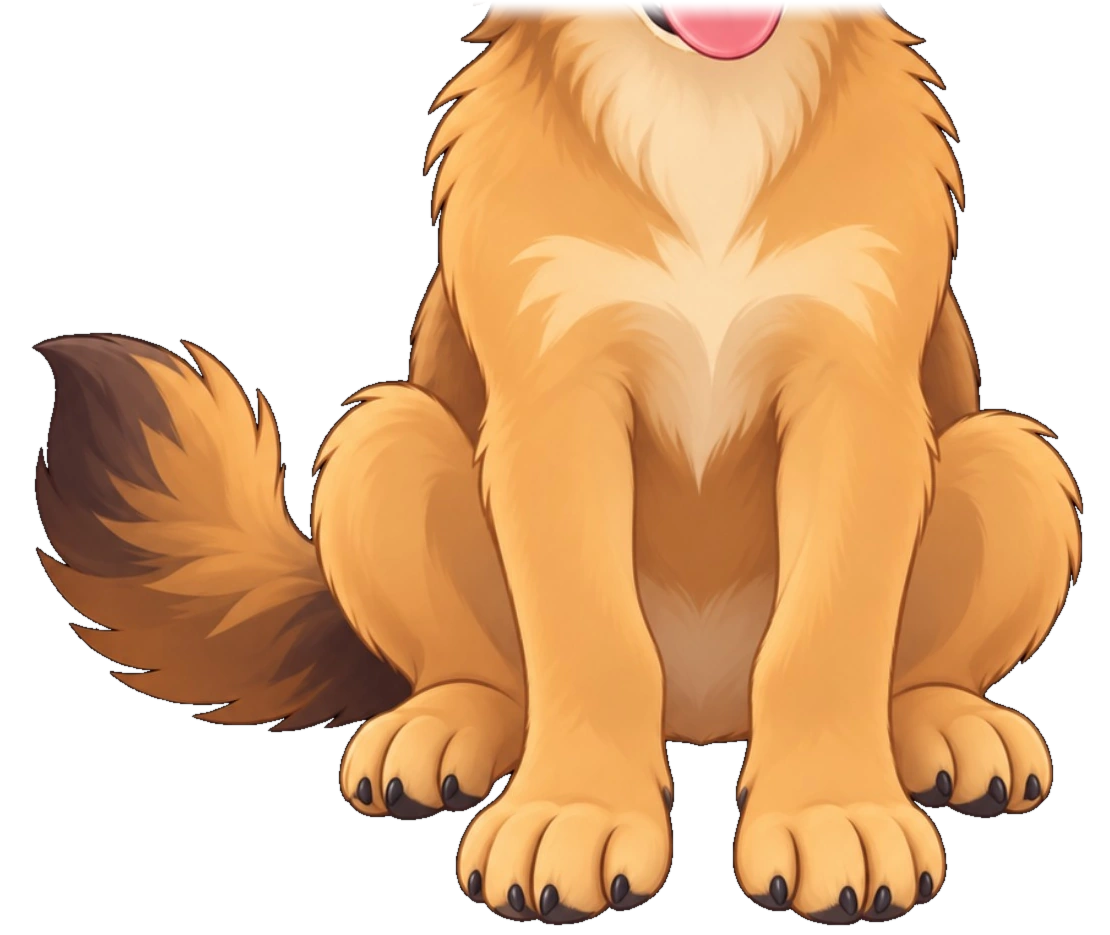
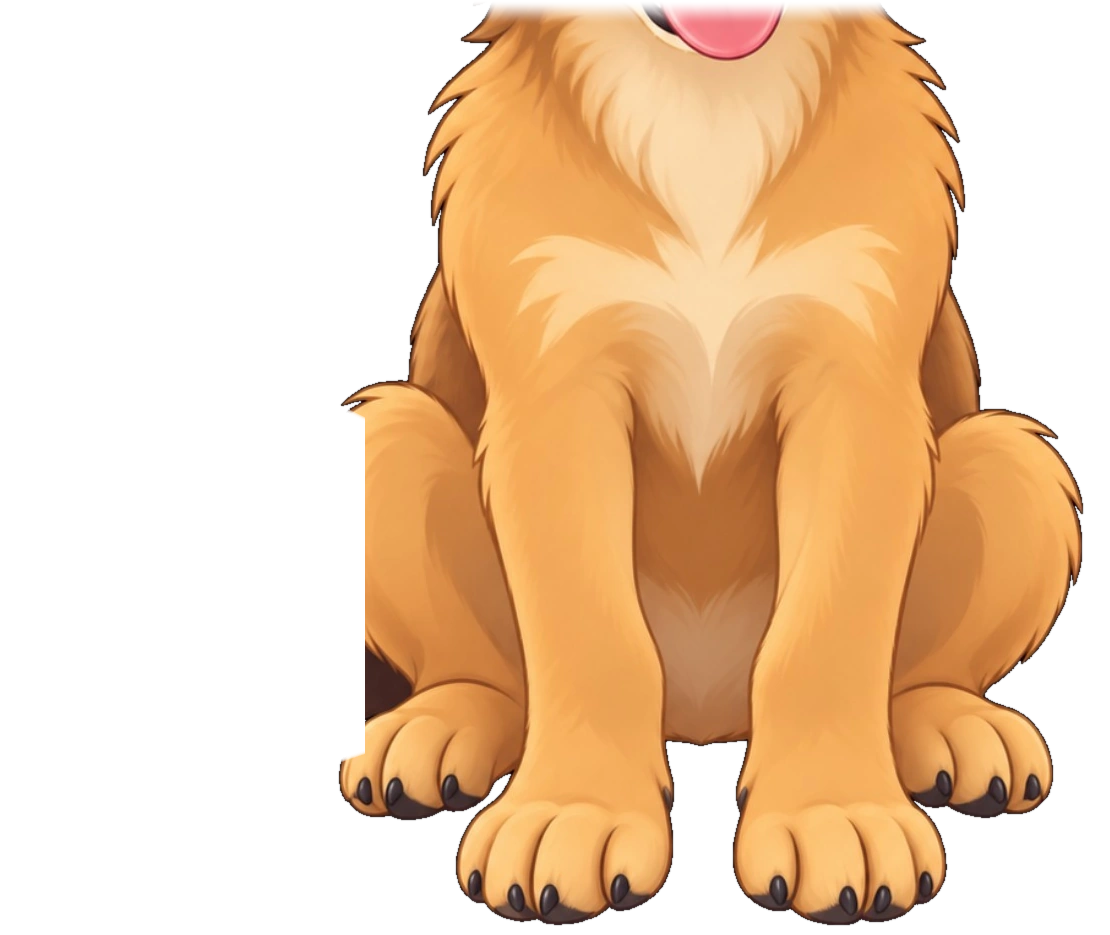
fix(pets): make Max rigged idle visibly animate

Changed region(s): [[0.0306, 0.3412, 0.3369, 0.8374]]

diff --git a/frontend/pets/components/PetRig.tsx b/frontend/pets/components/PetRig.tsx
@@ -3,9 +3,38 @@ import type { PetAnimation, PetDefinition } from "../config";
 import styles from "../pets.module.css";
 
 type RigPet = Extract<PetDefinition, { renderer: "rig" }>;
+type RigPart = RigPet["rig"]["parts"][number];
 
-// Each layer uses the same master coordinate system. Only transform changes
-// during idle; the grounded body and the containing layout never move.
+const PART_MOTION: Record<RigPart["motion"], string> = {
+  fixed: "",
+  breath: styles.rigBreath,
+  head: "",
+  earLeft: styles.rigEarLeft,
+  earRight: styles.rigEarRight,
+  tail: styles.rigTail,
+};
+
+function renderPart(part: RigPart, canvasSize: number) {
+  return (
+    <span
+      key={part.src}
+      className={`${styles.rigPart} ${PART_MOTION[part.motion]}`}
+      style={{
+        left: `${part.x / canvasSize * 100}%`,
+        top: `${part.y / canvasSize * 100}%`,
+        width: `${part.width / canvasSize * 100}%`,
+        height: `${part.height / canvasSize * 100}%`,
+        transformOrigin: part.pivot ? `${part.pivot.x}% ${part.pivot.y}%` : undefined,
+        backgroundImage: `url("${part.src}")`,
+      }}
+      data-rig-part={part.motion}
+      aria-hidden="true"
+    />
+  );
+}
+
+// The head group carries both ears; only the upper torso, head, ears and tail
+// transform. The paws and the root box stay anchored throughout the loop.
 export default function PetRig({
   pet,
   animation,
@@ -16,6 +45,8 @@ export default function PetRig({
   className: string;
 }) {
   const { canvasSize, duration, parts } = pet.rig;
+  const headParts = parts.filter((part) => part.motion === "head" || part.motion === "earLeft" || part.motion === "earRight");
+  const groundedParts = parts.filter((part) => part.motion !== "head" && part.motion !== "earLeft" && part.motion !== "earRight");
 
   return (
     <span
@@ -26,20 +57,10 @@ export default function PetRig({
       role="img"
       aria-label={pet.name}
     >
-      {parts.map((part) => (
-        <span
-          key={part.src}
-          className={`${styles.rigPart} ${part.motion === "head" ? styles.rigHead : part.motion === "breath" ? styles.rigBreath : ""}`}
-          style={{
-            left: `${part.x / canvasSize * 100}%`,
-            top: `${part.y / canvasSize * 100}%`,
-            width: `${part.width / canvasSize * 100}%`,
-            height: `${part.height / canvasSize * 100}%`,
-            backgroundImage: `url("${part.src}")`,
-          }}
-          aria-hidden="true"
-        />
-      ))}
+      {groundedParts.map((part) => renderPart(part, canvasSize))}
+      <span className={styles.rigHeadGroup} data-rig-part="headGroup" aria-hidden="true">
+        {headParts.map((part) => renderPart(part, canvasSize))}
+      </span>
     </span>
   );
 }

diff --git a/frontend/pets/pets.module.css b/frontend/pets/pets.module.css
@@ -28,23 +28,54 @@
   background-size: 100% 100%;
   pointer-events: none;
 }
+.rigHeadGroup {
+  position: absolute;
+  inset: 0;
+  animation: maxHead var(--rig-duration) ease-in-out infinite;
+  will-change: transform;
+  pointer-events: none;
+}
 .rigBreath {
-  transform-origin: 50% 84%;
   animation: maxBreath var(--rig-duration) ease-in-out infinite;
   will-change: transform;
 }
-.rigHead {
-  transform-origin: 50% 90%;
-  animation: maxHead var(--rig-duration) ease-in-out infinite;
+.rigEarLeft {
+  animation: maxEarLeft var(--rig-duration) ease-in-out infinite;
+  will-change: transform;
+}
+.rigEarRight {
+  animation: maxEarRight var(--rig-duration) ease-in-out infinite;
+  will-change: transform;
+}
+.rigTail {
+  animation: maxTail var(--rig-duration) ease-in-out infinite;
   will-change: transform;
 }
 @keyframes maxBreath {
   0%, 100% { transform: scale(1); }
-  50% { transform: scale(1.014, 1.004); }
+  50% { transform: scale(1.03, 1.015); }
 }
 @keyframes maxHead {
   0%, 100% { transform: translateY(0); }
-  50% { transform: translateY(-.7%); }
+  50% { transform: translateY(calc(-1 * clamp(3.2px, .97vw, 4px))); }
+}
+@keyframes maxEarLeft {
+  0%, 18%, 100% { transform: rotate(0); }
+  57% { transform: rotate(-1.2deg); }
+  80% { transform: rotate(.15deg); }
+}
+@keyframes maxEarRight {
+  0%, 22%, 100% { transform: rotate(0); }
+  54% { transform: rotate(1.1deg); }
+  78% { transform: rotate(-.15deg); }
+}
+@keyframes maxTail {
+  0%, 26%, 100% { transform: rotate(0); }
+  62% { transform: rotate(1.3deg); }
+}
+@keyframes maxBreathReduced {
+  0%, 100% { transform: scale(1); }
+  50% { transform: scale(1.009, 1.004); }
 }
 
 .shell {
@@ -283,6 +314,14 @@
 
 @media (prefers-reduced-motion: reduce) {
   .petStrip { animation: none; will-change: auto; }
-  .rigBreath, .rigHead { animation: none; will-change: auto; }
+  /* The global reduced-motion rule forces every animation to 0.01ms once.
+     Override that only for Max's gentler breathing cycle. */
+  .rigRoot .rigBreath {
+    animation-name: maxBreathReduced;
+    animation-duration: 5.6s !important;
+    animation-iteration-count: infinite !important;
+    will-change: auto;
+  }
+  .rigHeadGroup, .rigEarLeft, .rigEarRight, .rigTail { animation: none; will-change: auto; }
   .petCard, .petsAccess { transition: none; }
 }

diff --git a/frontend/pets/config.ts b/frontend/pets/config.ts
@@ -26,7 +26,8 @@ interface RigPart {
   y: number;
   width: number;
   height: number;
-  motion: "fixed" | "breath" | "head";
+  motion: "fixed" | "breath" | "head" | "earLeft" | "earRight" | "tail";
+  pivot?: { x: number; y: number };
 }
 
 interface RigPet extends PetBase {
@@ -67,11 +68,14 @@ export const PETS: readonly PetDefinition[] = [
     portraitHeight: 1536,
     rig: {
       canvasSize: 1536,
-      duration: 3.4,
+      duration: 3.6,
       parts: [
+        { src: "/pets/max/tail.webp", x: 180, y: 880, width: 520, height: 500, motion: "tail", pivot: { x: 82, y: 45 } },
         { src: "/pets/max/body.webp", x: 190, y: 585, width: 1110, height: 935, motion: "fixed" },
-        { src: "/pets/max/chest.webp", x: 625, y: 640, width: 510, height: 430, motion: "breath" },
+        { src: "/pets/max/chest.webp", x: 585, y: 595, width: 605, height: 570, motion: "breath", pivot: { x: 50, y: 82 } },
         { src: "/pets/max/head.webp", x: 370, y: 10, width: 930, height: 740, motion: "head" },
+        { src: "/pets/max/ear-left.webp", x: 350, y: 130, width: 320, height: 495, motion: "earLeft", pivot: { x: 88, y: 8 } },
+        { src: "/pets/max/ear-right.webp", x: 985, y: 125, width: 315, height: 380, motion: "earRight", pivot: { x: 14, y: 11 } },
       ],
     },
   },
